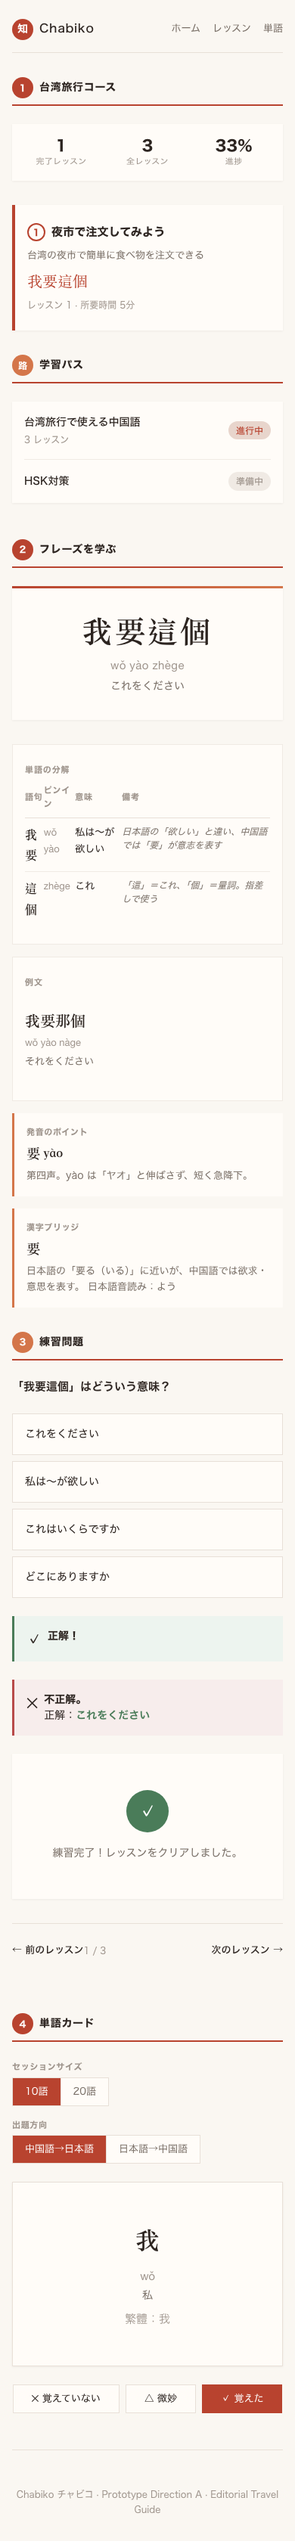
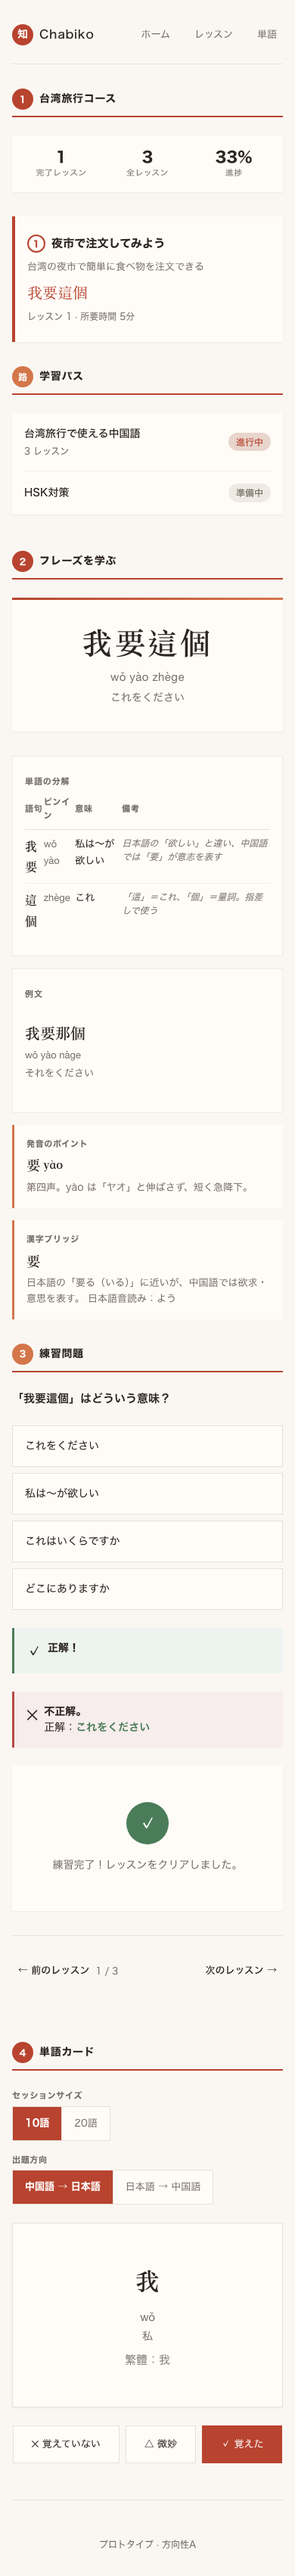
fix(design): add focus-visible, 44px touch targets, and fresh screenshots (#57)
- Add :focus-visible styles and 44px min-height to all interactive elements:
  .app-header__brand, .app-header__link, .lesson-nav__link,
  .control-option, .flashcard-btn
- Fix MD colour table: muted text = #736b64 (was stale #9e948c)

diff --git a/docs/design/prototypes/direction-a-editorial.html b/docs/design/prototypes/direction-a-editorial.html
@@ -72,10 +72,16 @@
     justify-content: space-between;
   }
   .app-header__brand {
-    display: flex;
-    align-items: baseline;
+    display: inline-flex;
+    align-items: center;
     gap: var(--space-sm);
     text-decoration: none;
+    min-height: 44px;
+    border-radius: 0;
+  }
+  .app-header__brand:focus-visible {
+    outline: 2px solid var(--color-accent);
+    outline-offset: 2px;
   }
   .app-header__icon {
     width: 28px; height: 28px;
@@ -111,6 +117,10 @@
     padding: 0 var(--space-sm);
   }
   .app-header__link:hover { color: var(--color-accent); }
+  .app-header__link:focus-visible {
+    outline: 2px solid var(--color-accent);
+    outline-offset: 2px;
+  }
 
   /* --- Section Heading (editorial style) --------------------- */
   .section-heading {
@@ -504,11 +514,17 @@
     text-decoration: none;
     font-weight: 500;
     transition: color 0.15s;
-    display: flex;
+    display: inline-flex;
     align-items: center;
     gap: var(--space-xs);
+    min-height: 44px;
+    padding: 0 var(--space-sm);
   }
   .lesson-nav__link:hover { color: var(--color-accent); }
+  .lesson-nav__link:focus-visible {
+    outline: 2px solid var(--color-accent);
+    outline-offset: 2px;
+  }
   .lesson-nav__link--next { margin-left: auto; }
   .lesson-nav__divider { color: var(--color-border); }
   .lesson-nav__index {
@@ -562,6 +578,10 @@
   }
   .control-option:hover:not(.control-option--active) {
     background: #f5f0ea;
+  }
+  .control-option:focus-visible {
+    outline: 2px solid var(--color-accent);
+    outline-offset: 2px;
   }
 
   .flashcard {

diff --git a/docs/design/prototypes/direction-a-editorial.md b/docs/design/prototypes/direction-a-editorial.md
@@ -19,7 +19,7 @@ slim Taiwan guidebooks sold at Maruzen and Kinokuniya.
 | Surface | `#fffcf8` — warm white | Cards, info blocks, flashcard |
 | Text | `#2c2420` — deep warm brown | Main body and headings |
 | Secondary text | `#7a7068` — warm grey | Can-do descriptions, labels |
-| Muted text | `#9e948c` — light warm grey | Pinyin, metadata, secondary labels |
+| Muted text | `#736b64` — warm grey | Pinyin, metadata, secondary labels |
 | Accent | `#b8432f` — restrained red | Section numbers, active paths, CTAs |
 | Accent warm | `#d4764a` — terracotta | Alternate section markers, note cards |
 | Accent soft | `#e8d5cc` — blush | Status pills, hover states |
